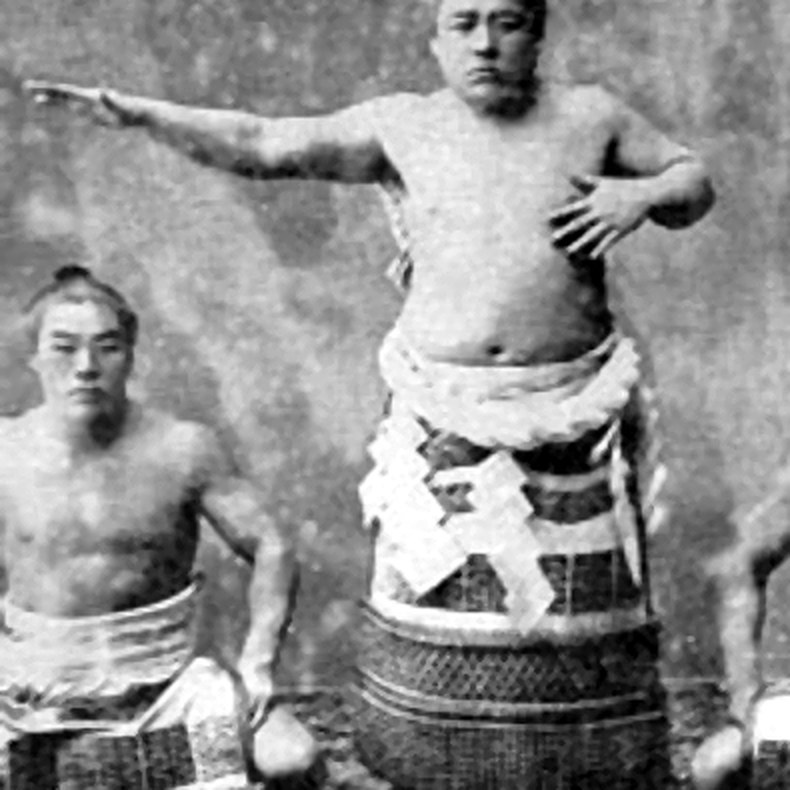
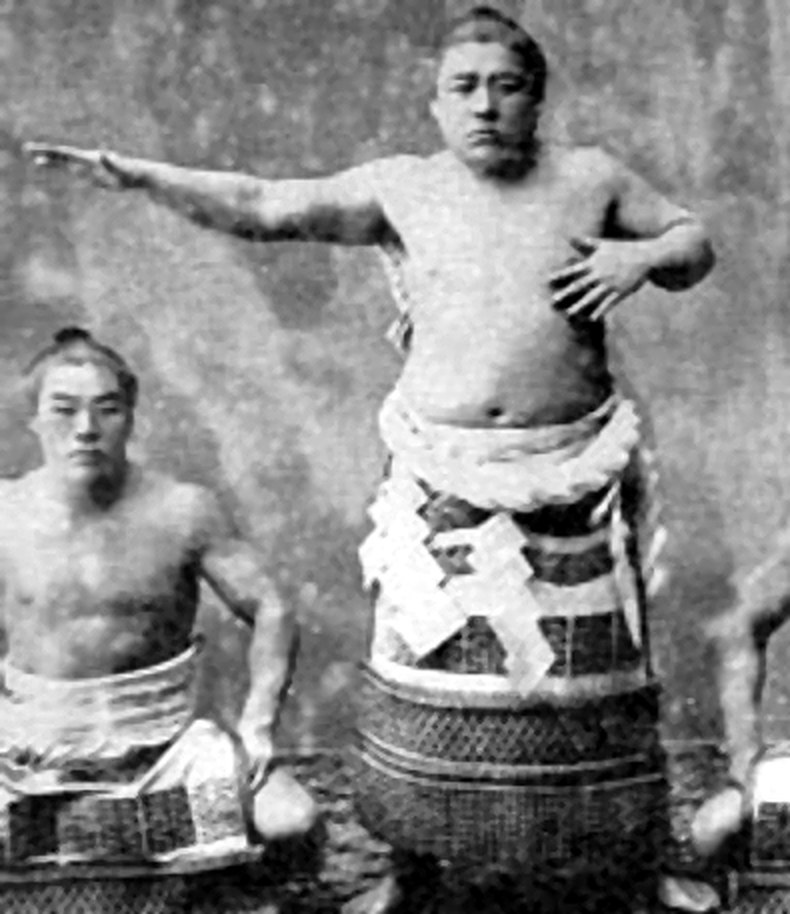
Keep the photograph visible and cover only the chest.
The full portrait stays on the board, and the 10×10 grid sits on the chest.

diff --git a/src/app/page.tsx b/src/app/page.tsx
@@ -10,7 +10,7 @@ export default function Home() {
           <span className="word-nips">nips</span>
         </h1>
         <p className="lede">
-          A public-domain photograph under a hundred squares. Find the one hiding the nipple.
+          The photograph stays in view. A hundred squares cover the chest.
         </p>
         <p className="stamp" aria-hidden="true">
           One
@@ -26,17 +26,17 @@ export default function Home() {
             <p>
               Battlenips is a one-guess picture game. A public-domain
               photograph from 1896–1901 shows sumo wrestler Konishiki
-              Yasokichi shirtless, in a mawashi, under a 10×10 grid. The lime
-              ring marks one square on his chest. The picture is from
-              Wikimedia Commons.
+              Yasokichi shirtless, in a mawashi. The 10×10 grid sits on his
+              chest, and the rest of the picture stays visible. The lime ring
+              marks one square there. The picture is from Wikimedia Commons.
             </p>
           </section>
           <section>
             <h2>How to play</h2>
             <ol className="steps">
               <li>
-                <span>Squares run from 1 to 100. 1 is the top-left. Numbers
-                go left to right, then down a row. 100 is the bottom-right.</span>
+                <span>The grid covers the chest. Squares run from 1 to 100.
+                1 is the top-left of that grid. 100 is the bottom-right.</span>
               </li>
               <li>
                 <span>Tap the square you think is covering it. You get one

diff --git a/src/components/game-board.tsx b/src/components/game-board.tsx
@@ -4,7 +4,7 @@ import Image from "next/image";
 import { useEffect, useId, useRef, useState } from "react";
 
 const SQUARES = 100;
-const TARGET = 34;
+const TARGET = 33;
 
 export function GameBoard() {
   const [guess, setGuess] = useState<number | null>(null);
@@ -46,8 +46,8 @@ export function GameBoard() {
       <div className="game-head">
         <h2 id="board-title">The board</h2>
         <p className="game-note">
-          Tiles stay shut until you tap. Then the photograph opens and the real
-          square gets a lime ring.
+          The photograph stays in view. The grid covers only the chest. Tiles
+          open when you tap, and the real square gets a lime ring.
         </p>
       </div>
 
@@ -74,7 +74,7 @@ export function GameBoard() {
       <div className="board">
         <Image
           src="/photo.jpg"
-          alt="Public-domain photograph of shirtless sumo wrestler Konishiki Yasokichi, hidden under the numbered grid."
+          alt="Public-domain photograph of shirtless sumo wrestler Konishiki Yasokichi. The numbered grid covers his chest."
           fill
           priority
           sizes="(max-width: 860px) 100vw, 560px"
@@ -83,7 +83,7 @@ export function GameBoard() {
         <div
           className="cells"
           role="group"
-          aria-label="10 by 10 grid. Square 1 is top-left. Square 100 is bottom-right."
+          aria-label="10 by 10 grid over the chest. Square 1 is top-left. Square 100 is bottom-right."
           aria-describedby={statusId}
         >
           {Array.from({ length: SQUARES }, (_, index) => {

diff --git a/src/app/globals.css b/src/app/globals.css
@@ -246,25 +246,27 @@ body {
 .board {
   position: relative;
   width: 100%;
-  aspect-ratio: 1;
+  aspect-ratio: 395 / 457;
   border: 3px solid var(--ink);
   background: var(--ink);
   overflow: hidden;
 }
 
 .board-art {
-  object-fit: cover;
+  object-fit: contain;
 }
 
-.mark-layer,
 .cells {
   position: absolute;
-  inset: 0;
+  left: 27.34%;
+  top: 28.01%;
+  width: 42.53%;
+  aspect-ratio: 1;
   display: grid;
   grid-template-columns: repeat(10, minmax(0, 1fr));
   grid-template-rows: repeat(10, minmax(0, 1fr));
-  gap: 3px;
-  padding: 3px;
+  gap: 1px;
+  z-index: 2;
 }
 
 .mark-layer {
@@ -330,7 +332,7 @@ body {
   left: 1px;
   font-family: var(--font-display), sans-serif;
   font-weight: 800;
-  font-size: clamp(0.48rem, 1.55vw, 0.72rem);
+  font-size: clamp(0.38rem, 0.9vw, 0.58rem);
   line-height: 1;
   background: rgba(255, 248, 232, 0.92);
   padding: 0.08rem 0.16rem 0.05rem;

diff --git a/src/app/layout.tsx b/src/app/layout.tsx
@@ -17,7 +17,7 @@ const text = Fraunces({
 export const metadata: Metadata = {
   title: "Battlenips",
   description:
-    "A one-guess picture game. A public-domain photograph of shirtless sumo wrestler Konishiki Yasokichi hides under a 10×10 grid numbered 1 to 100.",
+    "A one-guess picture game. A public-domain photograph of shirtless sumo wrestler Konishiki Yasokichi, with a 10×10 grid over his chest.",
 };
 
 export const viewport: Viewport = {
